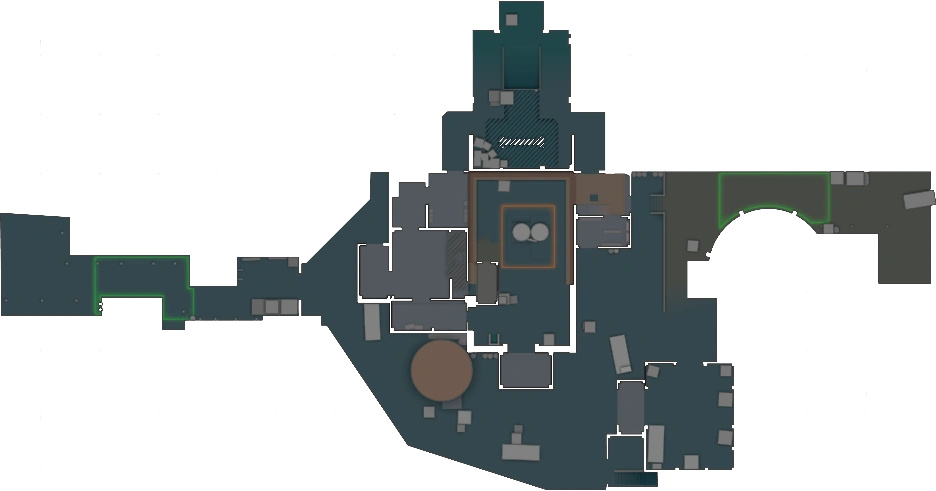
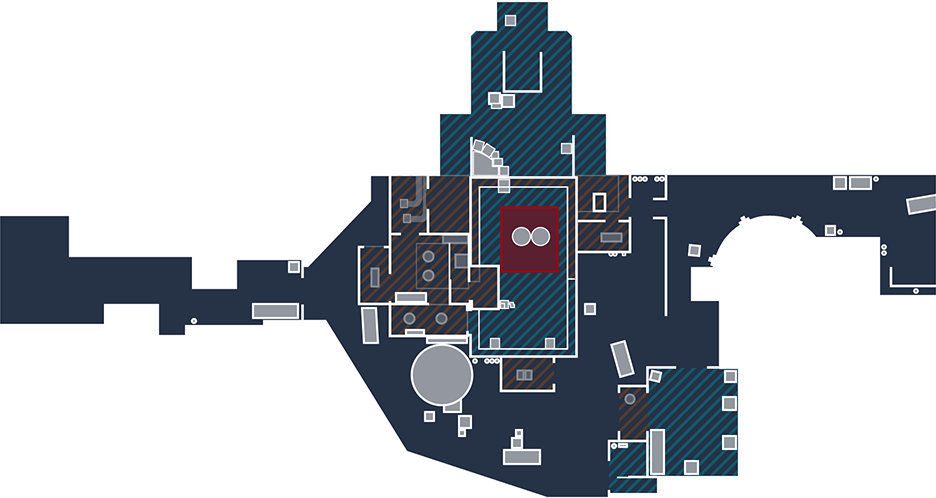
Nuke upper/lower and NavBar changes

diff --git a/frontend/src/component/navigation/NavBar.tsx b/frontend/src/component/navigation/NavBar.tsx
@@ -1,0 +1,90 @@
+import { useEffect, useRef, useState } from "react";
+import { useNavigate } from "react-router-dom";
+
+export default function NavBar() {
+    const navigate = useNavigate();
+    const [menuOpen, setMenuOpen] = useState(false);
+    const menuRef = useRef<HTMLDivElement>(null);
+
+    const menuItems = [
+        { label: "Home", path: "/" },
+        { label: "Upload", path: "/upload" },
+        { label: "Admin", path: "/admin" },
+        { label: "Future", path: "/future" },
+    ];
+
+    useEffect(() => {
+        function handleClickOutside(event: MouseEvent) {
+            if (
+                menuRef.current &&
+                !menuRef.current.contains(event.target as Node)
+            ) {
+                setMenuOpen(false);
+            }
+        }
+
+        if (menuOpen) {
+            document.addEventListener("mousedown", handleClickOutside);
+        } else {
+            document.removeEventListener("mousedown", handleClickOutside);
+        }
+
+        return () => {
+            document.removeEventListener("mousedown", handleClickOutside);
+        };
+    }, [menuOpen]);
+
+    return (
+        <div className="fixed top-0 left-0 w-full h-12 z-50 text-white flex items-center justify-between border-b border-gray-500 px-4 ">
+            {/* Left: Title */}
+            <button
+                onClick={() => navigate(`/`)}
+                className="text-xl font-bold text-white"
+            >
+                CS2C
+            </button>
+
+            {/* Right: Hamburger and Menu */}
+            <div className="relative" ref={menuRef}>
+                <button
+                    onClick={() => setMenuOpen((prev) => !prev)}
+                    className="p-2 text-white hover:bg-gray-700 rounded"
+                >
+                    <svg
+                        className="h-5 w-5"
+                        fill="none"
+                        stroke="currentColor"
+                        strokeWidth="2"
+                        viewBox="0 0 24 24"
+                    >
+                        <path
+                            strokeLinecap="round"
+                            strokeLinejoin="round"
+                            d="M4 6h16M4 12h16M4 18h16"
+                        />
+                    </svg>
+                </button>
+
+                {menuOpen && (
+                    <div className="absolute right-0 mt-2 w-40 border border-gray-500 rounded shadow-lg z-50">
+                        <ul className="flex flex-col">
+                            {menuItems.map((item) => (
+                                <li key={item.path}>
+                                    <button
+                                        onClick={() => {
+                                            navigate(item.path);
+                                            setMenuOpen(false);
+                                        }}
+                                        className="px-4 py-2 text-sm hover:bg-gray-100 w-full text-left"
+                                    >
+                                        {item.label}
+                                    </button>
+                                </li>
+                            ))}
+                        </ul>
+                    </div>
+                )}
+            </div>
+        </div>
+    );
+}

diff --git a/frontend/src/component/viewer/PixiViewer.tsx b/frontend/src/component/viewer/PixiViewer.tsx
@@ -6,17 +6,19 @@ type PixiViewerProps = {
     currentTick: TickData;
     previousTick: TickData | undefined;
     speed: number;
-    map: string;
+    mapI: string;
 };
 
 export function PixiViewer({
     currentTick,
     previousTick,
     speed,
-    map,
+    mapI,
 }: PixiViewerProps) {
     const containerRef = useRef<HTMLDivElement>(null);
     const mapViewerRef = useRef<MapViewer | null>(null);
+
+    const [map, setMap] = useState<string>(mapI);
 
     useEffect(() => {
         mapViewerRef.current?.updateMap(map);
@@ -26,6 +28,9 @@ export function PixiViewer({
         const initializeMapViewer = async () => {
             if (!containerRef.current || mapViewerRef.current) return;
 
+            if (map == "de_nuke") {
+                setMap("de_nuke_upper");
+            }
             // Create your MapViewer instance once
             mapViewerRef.current = new MapViewer(containerRef.current, map);
 
@@ -82,9 +87,23 @@ export function PixiViewer({
         return () => cancelAnimationFrame(animationFrame);
     }, [currentTick, previousTick]);
 
+    const handleDisplayLowerMap = () => {
+        console.log(map);
+        if (map === "de_nuke_upper") {
+            console.log("switch nuke lower");
+            setMap("de_nuke_lower");
+        } else if (map === "de_nuke_lower") {
+            console.log("switch nuke upper");
+            setMap("de_nuke_upper");
+        } else if (map === "de_train") {
+            console.log("switch train inner/outer");
+        }
+    };
+
     return (
         <div
             ref={containerRef}
+            onClick={handleDisplayLowerMap}
             style={{ width: "1024px", height: "768px", position: "relative" }}
         />
     );

diff --git a/frontend/src/lib/viewer/models/MapData.ts b/frontend/src/lib/viewer/models/MapData.ts
@@ -55,14 +55,22 @@ const mapData: Record<string, MapInfo> = {
         Y_MIN: -1798,
         Y_MAX: 1777,
     }, // X 1767 -2178 Y 1777 -1798
-    de_nuke: {
-        name: "de_nuke",
+    de_nuke_upper: {
+        name: "de_nuke_upper",
         imagePath: "/maps/de_nuke_upper.png",
-        X_MIN: -0,
-        X_MAX: 0,
-        Y_MIN: -0,
-        Y_MAX: 0,
-    }, //
+        X_MIN: -2991,
+        X_MAX: 3497,
+        Y_MIN: -2479,
+        Y_MAX: 934,
+    }, // X 3497 -> -2991    Y 934 -> -2479
+    de_nuke_lower: {
+        name: "de_nuke_lower",
+        imagePath: "/maps/de_nuke_lower.png",
+        X_MIN: -2991,
+        X_MAX: 3497,
+        Y_MIN: -2479,
+        Y_MAX: 934,
+    }, // X 3497 -> -2991    Y 934 -> -2479
 };
 
 export function getMapInfo(mapName: string): MapInfo {

diff --git a/frontend/src/component/viewer/DemoPlayer.tsx b/frontend/src/component/viewer/DemoPlayer.tsx
@@ -2,7 +2,7 @@ import { useEffect, useState } from "react";
 import { PixiViewer } from "./PixiViewer";
 import { TickData } from "../../lib/viewer/types/TickData";
 import { KillFeed } from "../killfeed/KillFeed";
-import { Kill } from "../../lib/viewer/types/Kill";
+import { Kill } from "../../lib/viewer/types/kill";
 
 type DemoPlayerProps = {
     currentTick: TickData;
@@ -80,7 +80,7 @@ export function DemoPlayer({
                 currentTick={currentTick}
                 speed={speed}
                 previousTick={previousTick}
-                map={map}
+                mapI={map}
             />
         </div>
     );

diff --git a/frontend/src/pages/Viewer.tsx b/frontend/src/pages/Viewer.tsx
@@ -5,7 +5,7 @@
 // import MapView from "../component/MapView"
 import { Team } from "../component/team/Team";
 // import Player from "./component/Player"
-import { BottomBar } from "../component/BottomBar";
+import { BottomBar } from "../component/viewer/BottomBar";
 import { DemoPlayer } from "../component/viewer/DemoPlayer";
 import { useEffect, useRef, useState } from "react";
 import { TickData } from "../lib/viewer/types/TickData";

diff --git a/frontend/src/App.tsx b/frontend/src/App.tsx
@@ -2,7 +2,7 @@ import { BrowserRouter as Router, Routes, Route } from "react-router-dom";
 import Home from "./pages/Home";
 import Viewer from "./pages/Viewer";
 import Upload from "./pages/Upload";
-import NavBar from "./component/NavBar";
+import NavBar from "./component/navigation/NavBar";
 import ToCome from "./pages/ToCome";
 import Admin from "./pages/Admin";
 

diff --git a/frontend/src/lib/viewer/MapViewer.ts b/frontend/src/lib/viewer/MapViewer.ts
@@ -42,6 +42,7 @@ export class MapViewer {
     constructor(cont: HTMLDivElement, map: string) {
         this.container = cont;
         this.root = new Container();
+        this.root.interactive = true;
         this.root.sortableChildren = true;
         this.app = new Application();
 

diff --git a/backend/main.py b/backend/main.py
@@ -1,13 +1,10 @@
 import asyncio
-import shutil
-from typing import Dict
 import uuid
 import zipfile
 from fastapi import FastAPI, File, HTTPException, UploadFile
 from fastapi.middleware.cors import CORSMiddleware
 from fastapi.responses import JSONResponse
 import tempfile
-import traceback
 
 from parsing.demo_parser import parse_demo
 from parsing.parquet_writer import *
